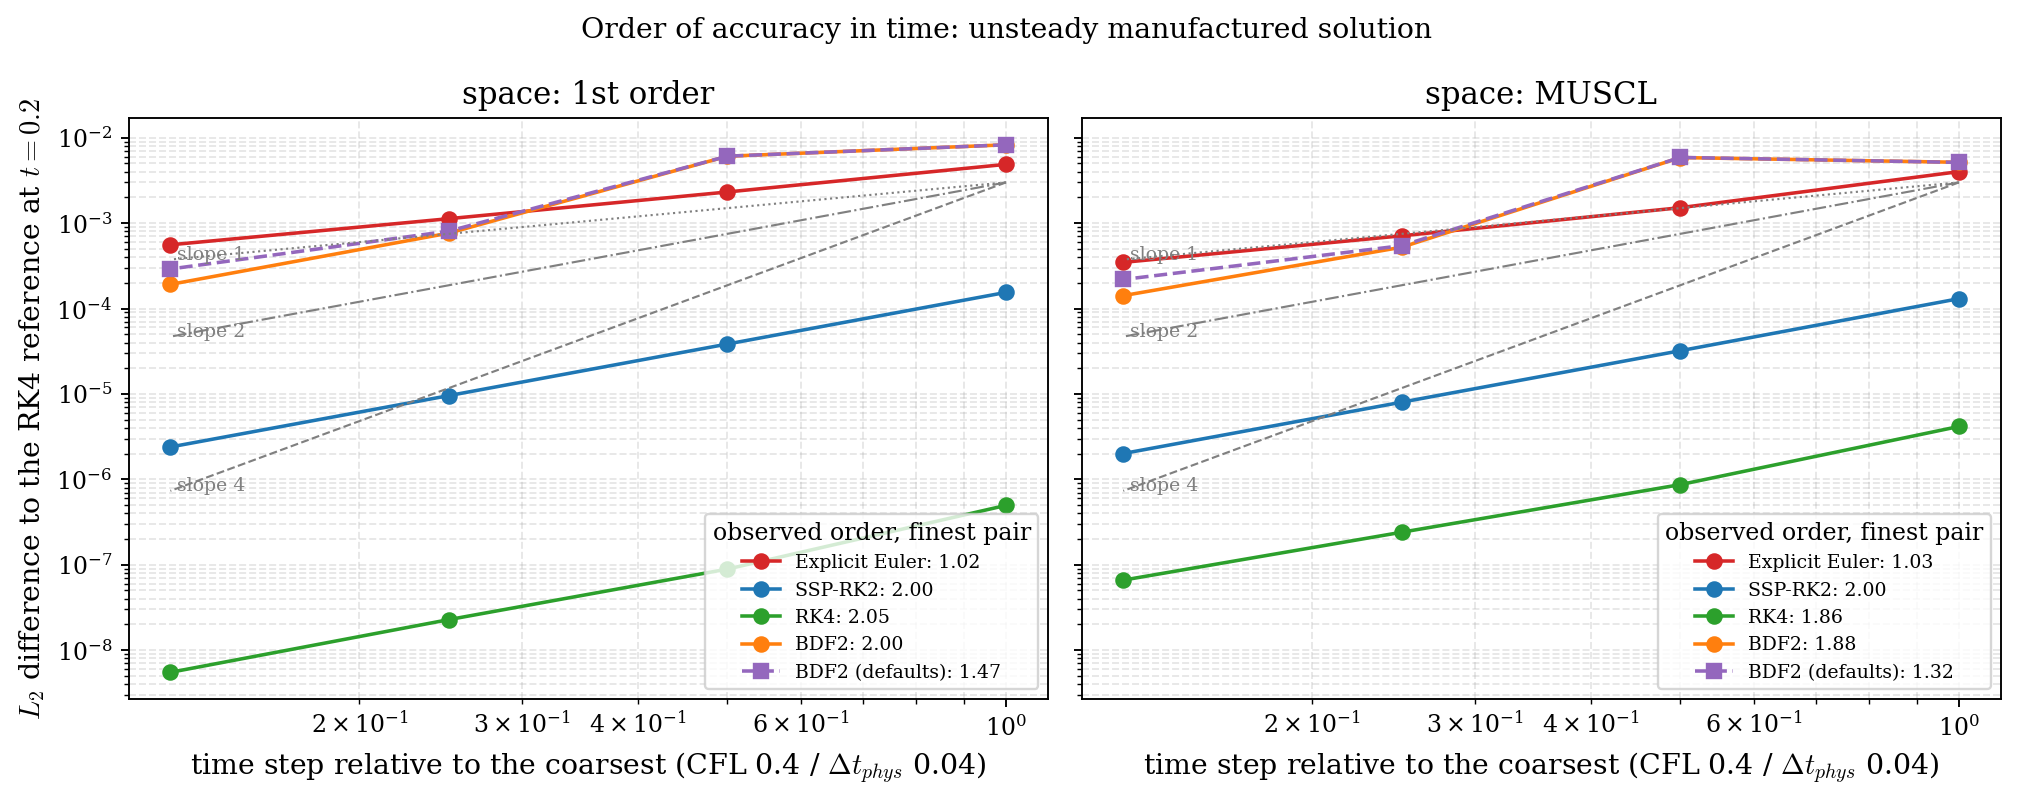
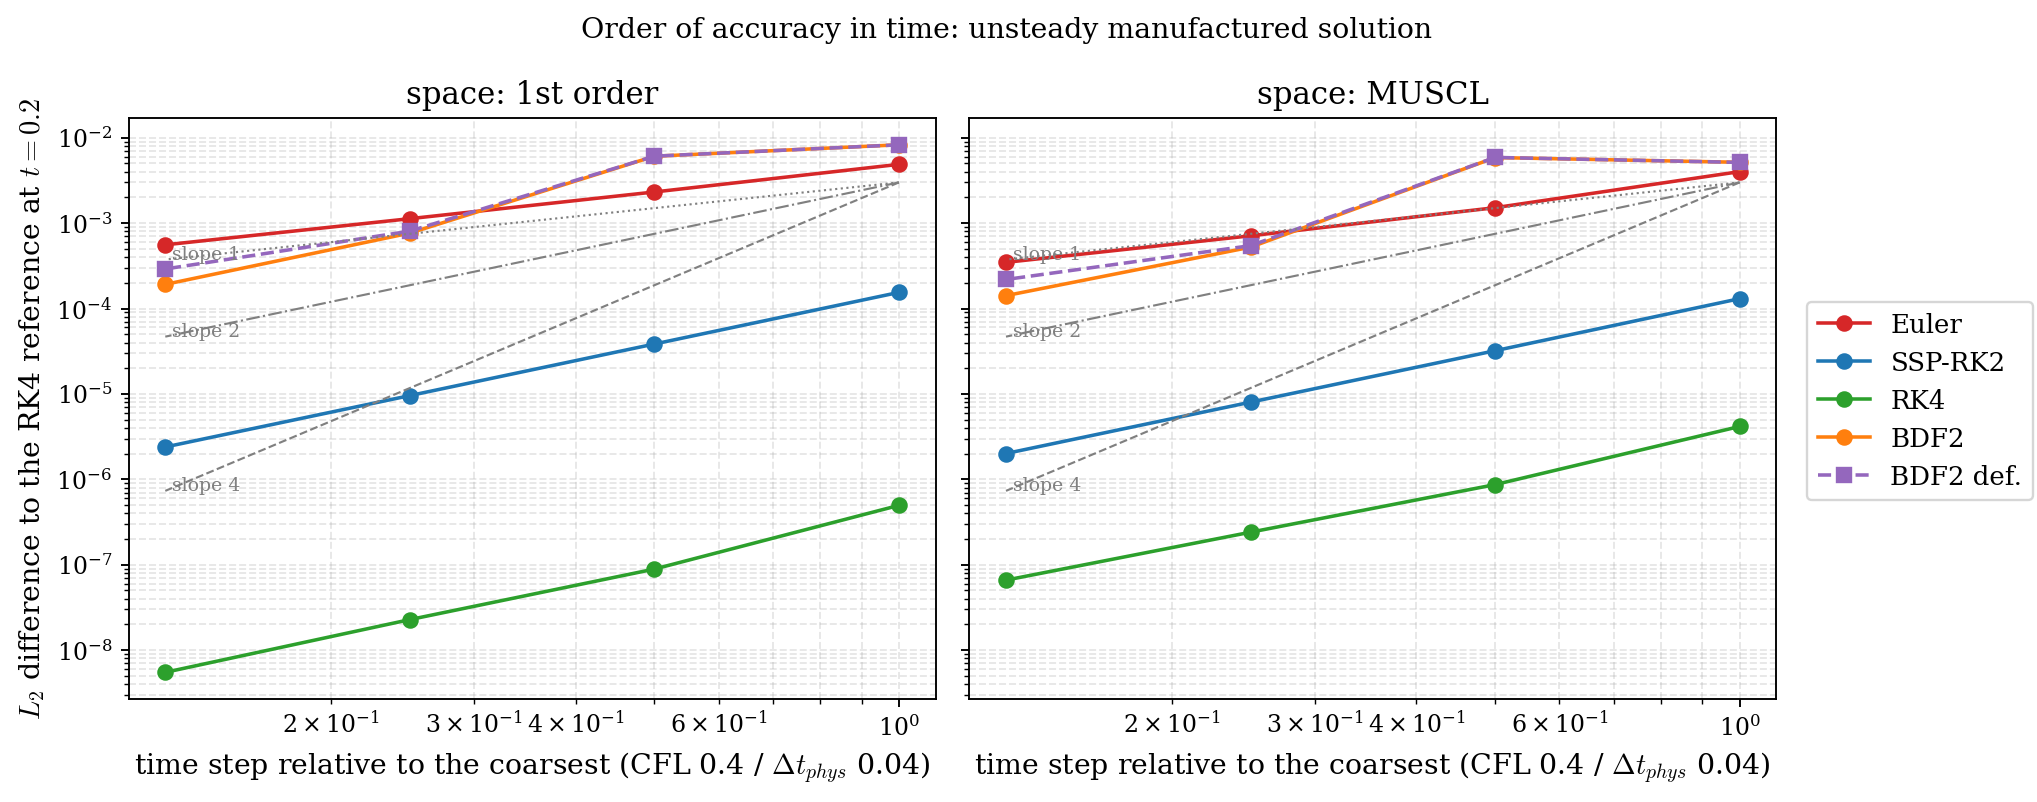
MMS figures: one vertical legend outside the panels with abbreviated names; observed orders stay in the tables

diff --git a/cases/validation/verification/mms.py b/cases/validation/verification/mms.py
@@ -241,13 +241,17 @@ def main():
     colors = {"Manufactured Solution": "C0", "Manufactured Solution Euler": "C1", "Manufactured Solution 3D": "C2",
               "Manufactured Solution Walls": "C3", "Manufactured Solution Outflow": "C4"}
     marks = {"MUSCL": "o-", "1st order": "s--"}
+    short = {"Manufactured Solution": "NS 2-D", "Manufactured Solution Euler": "Euler 2-D", "Manufactured Solution 3D": "NS 3-D",
+             "Manufactured Solution Walls": "Walls", "Manufactured Solution Outflow": "Outflow"}
+    short_scheme = {"MUSCL": "MUSCL", "1st order": "1st"}
     for sol in sols:
         h = [1.0 / n for n in GRIDS[sol.dim]]
         for scheme in SCHEMES:
-            ax[0].loglog(h, resid[sol.name(), scheme], marks[scheme], color=colors[sol.name()], label=f"{sol.name()}, {scheme}")
+            lab = f"{short[sol.name()]} {short_scheme[scheme]}"
+            ax[0].loglog(h, resid[sol.name(), scheme], marks[scheme], color=colors[sol.name()], label=lab)
             for k, norm in enumerate(("L2", "Linf")):
                 hh, e, p = curves[sol.name(), scheme, norm]
-                ax[k + 1].loglog(hh, e, marks[scheme], color=colors[sol.name()], label=f"{sol.name()}, {scheme}: {p:.2f}")
+                ax[k + 1].loglog(hh, e, marks[scheme], color=colors[sol.name()])   # the observed orders are in mms_table.md
     for a, title, ylab in ((ax[0], "Truncation error from the exact state", "rms of $(U_1 - U_0)/\\Delta t$"),
                            (ax[1], f"$L_2$ error at $t = {T_END}$ (worst variable)", "$L_2$ error"),
                            (ax[2], f"$L_\\infty$ error at $t = {T_END}$ (worst variable)", "$L_\\infty$ error")):
@@ -258,11 +262,10 @@ def main():
         a.set_title(title, fontsize=11)
         a.set_xlabel("$h$")
         a.set_ylabel(ylab)
-        a.legend(fontsize=6, ncol=2, loc="lower right")
-    fig.suptitle("Manufactured solutions: periodic (Euler, Navier-Stokes, 2-D, 3-D) and with walls / outflow "
-                 "(legend: observed order, finest pair)",
-                 fontsize=12, y=1.02)
-    fig.tight_layout()
+    handles, labels = ax[0].get_legend_handles_labels()   # one legend for the three panels: a column on the right
+    fig.suptitle("Manufactured solutions: periodic (Euler, Navier-Stokes, 2-D, 3-D) and with walls / outflow", fontsize=12, y=1.02)
+    fig.tight_layout(rect=(0, 0, 0.88, 1))
+    fig.legend(handles, labels, loc="center right", fontsize=11, ncol=1, frameon=True, borderaxespad=0.2)
     study.save(fig, STUDY, "mms.png", args.docs)
     print("\nresult: " + ("FAILED (see above)" if failed else "all checks passed"))
     sys.exit(1 if failed else 0)

diff --git a/cases/validation/verification/mms_time.py b/cases/validation/verification/mms_time.py
@@ -144,17 +144,19 @@ def main():
             # BDF2 on the dt_phys axis, the explicit schemes on the CFL axis: both are proportional to the step
             x = steps / steps[0]
             o = observed_orders(steps, errs)[-1]
-            ax.loglog(x, errs, "o-" if "defaults" not in name else "s--", color=colors[name], label=f"{name}: {o:.2f}")
+            ax.loglog(x, errs, "o-" if "defaults" not in name else "s--", color=colors[name],
+                      label=name.replace("Explicit Euler", "Euler").replace(" (defaults)", " def."))   # orders: mms_time_table.md
         for p_, ls in ((1, ":"), (2, "-."), (4, "--")):
             ax.loglog([1, 1 / 8], [3e-3, 3e-3 / 8 ** p_], color="gray", ls=ls, lw=0.9)
             ax.annotate(f"slope {p_}", (1 / 8, 3e-3 / 8 ** p_), fontsize=8, color="gray", xytext=(3, 0), textcoords="offset points")
         ax.set_title(f"space: {space}")
         ax.set_xlabel("time step relative to the coarsest (CFL 0.4 / $\\Delta t_{phys}$ 0.04)")
         ax.grid(True, which="both", alpha=0.3)
-        ax.legend(fontsize=8, title="observed order, finest pair")
     axs[0].set_ylabel("$L_2$ difference to the RK4 reference at $t = 0.2$")
     fig.suptitle("Order of accuracy in time: unsteady manufactured solution", fontsize=12)
-    fig.tight_layout()
+    handles, labels = axs[0].get_legend_handles_labels()
+    fig.tight_layout(rect=(0, 0, 0.89, 1))
+    fig.legend(handles, labels, loc="center right", fontsize=11, ncol=1, frameon=True, borderaxespad=0.2)
     study.save(fig, STUDY, "mms_time.png", args.docs)
     print("\nresult: " + ("FAILED (see above)" if failed else "all checks passed"))
     sys.exit(1 if failed else 0)

diff --git a/docs/source/cases/manufactured-solution.md b/docs/source/cases/manufactured-solution.md
@@ -112,7 +112,8 @@ figure and the table of this page come from it.
 <figure>
 <img src="{{root}}img/mms.png" style="width:100%">
 <figcaption>Left: truncation error from the exact state. Middle and right: $L_2$ and $L_\infty$ error at
-$t = 0.5$ of the worst variable; the legend gives the observed order of the finest pair of grids.</figcaption>
+$t = 0.5$ of the worst variable. One legend serves the three panels (NS: Navier-Stokes; MUSCL and 1st: the scheme); the
+observed orders of the finest pair of grids are in the table below.</figcaption>
 </figure>
 
 Observed orders (finest pair), from `results/validation/mms/mms_table.md`:
@@ -240,7 +241,8 @@ first run.
 <figure>
 <img src="{{root}}img/mms_time.png" style="width:100%">
 <figcaption>Difference to the small-step reference against the time step (CFL 0.4 to 0.05 for the explicit schemes,
-$\Delta t_{phys}$ 0.04 to 0.005 for BDF2); the legend gives the observed order of the finest pair.</figcaption>
+$\Delta t_{phys}$ 0.04 to 0.005 for BDF2; "def." is BDF2 with the solver's default inner iterations); the observed orders
+of the finest pair are in the table below.</figcaption>
 </figure>
 
 | time scheme | space | 0.4 | 0.2 | 0.1 | 0.05 | order (finest pair) | expected | |
